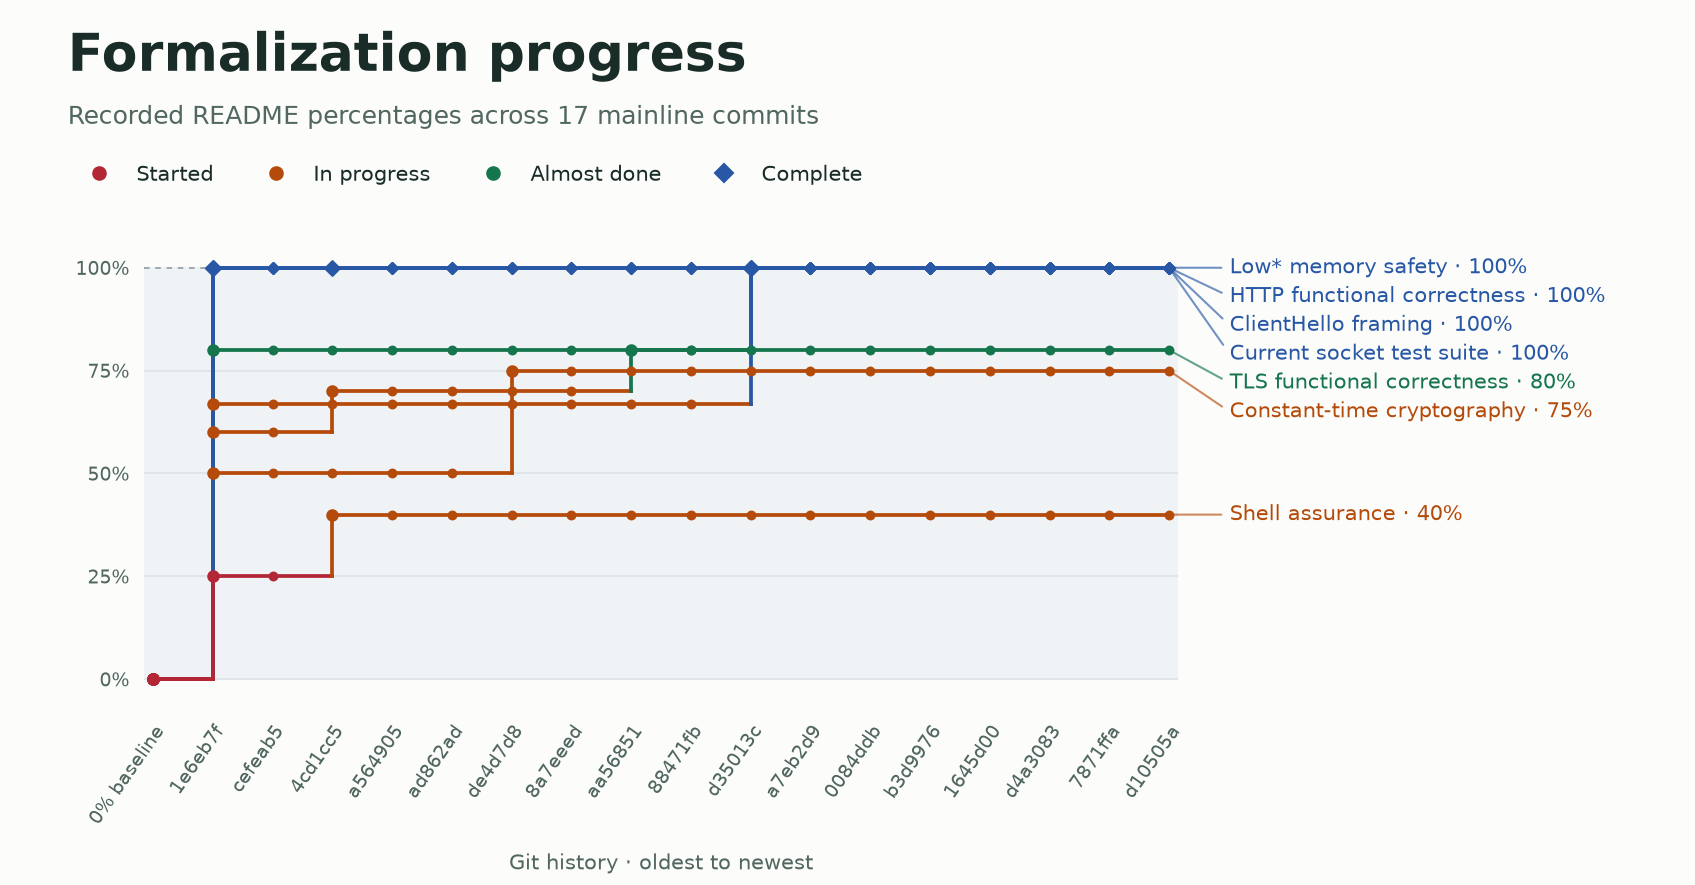
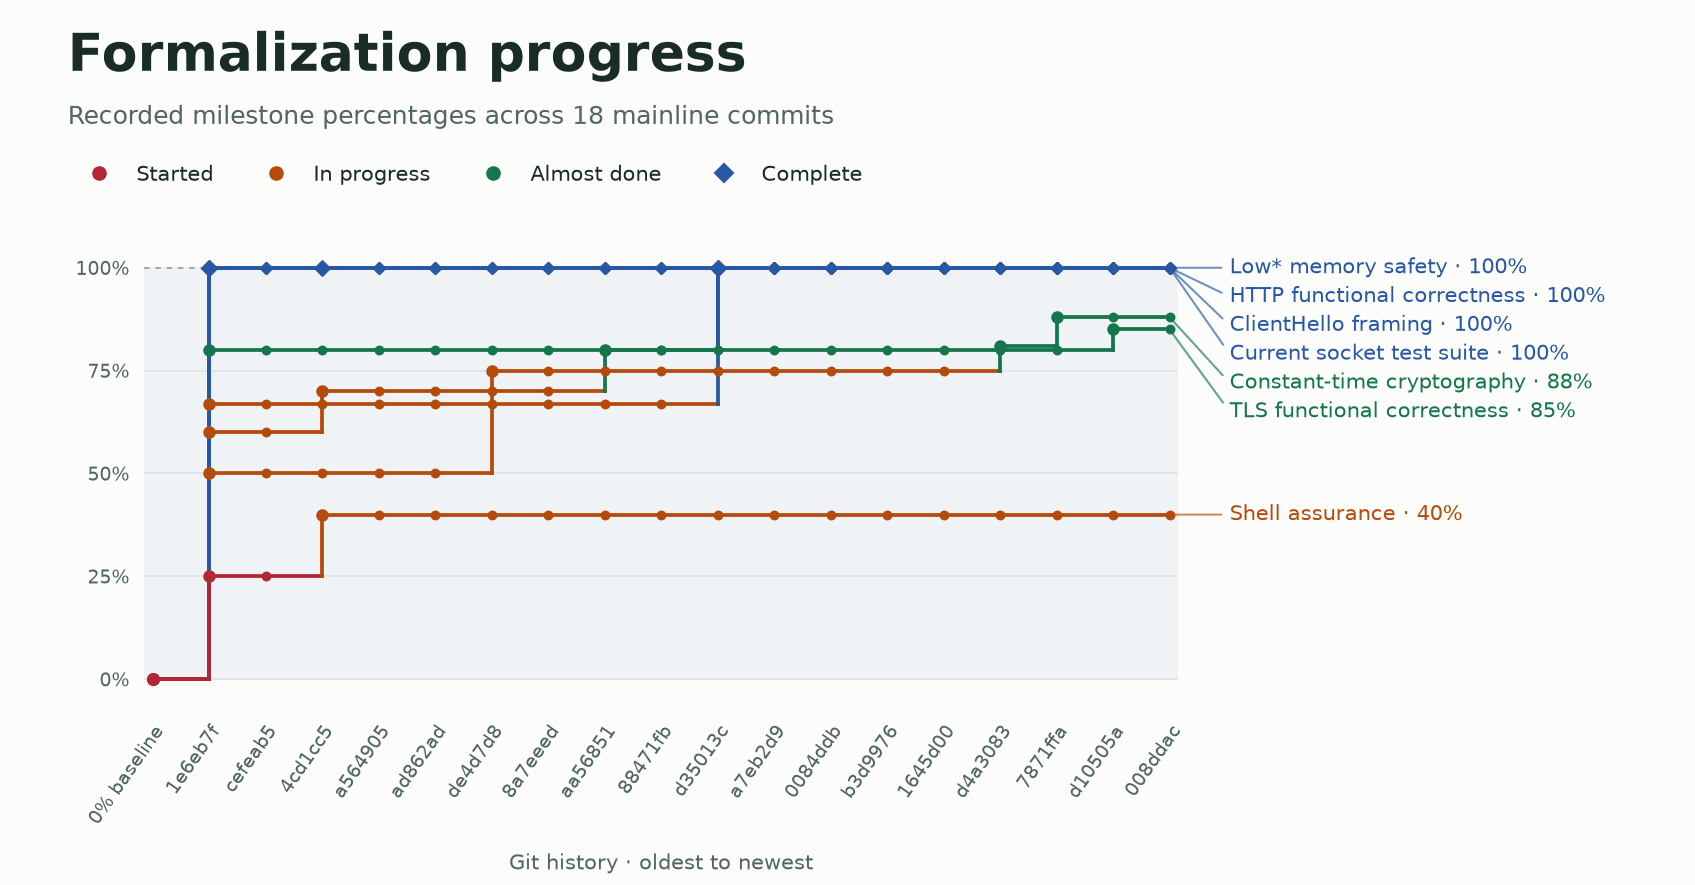
Credit TLS proof and assurance milestones where they landed

diff --git a/tools/plot_progress.py b/tools/plot_progress.py
@@ -30,6 +30,17 @@ def git(*args):
     return subprocess.run(["git", *args], cwd=ROOT, check=True, capture_output=True, text=True).stdout
 
 
+def score(label, status):
+    match = PROGRESS.search(status)
+    if match is None:
+        return None
+    percentage, fraction = match.groups()
+    symbol = status.strip()[0]
+    if symbol not in STATUS_STYLES:
+        raise ValueError(f"Unrecognized progress status for {label}: {status.strip()}")
+    return int(percentage), fraction, symbol
+
+
 def progress(readme):
     section = readme.partition("\n## Verification progress\n")[2].split("\n## ", 1)[0]
     rows = {}
@@ -38,32 +49,54 @@ def progress(readme):
         if columns[0] or len(columns) < 3:
             continue
         _, label, status, *_ = columns
-        match = PROGRESS.search(status)
-        if match:
+        point = score(label, status)
+        if point is not None:
             label = label.strip().replace(r"\*", "*")
             if label == "C shell assurance":
                 label = "Shell assurance"
-            percentage, fraction = match.groups()
-            symbol = status.strip()[0]
-            if symbol not in STATUS_STYLES:
-                raise ValueError(f"Unrecognized progress status for {label}: {status.strip()}")
-            rows[label] = (int(percentage), fraction, symbol)
+            rows[label] = point
     return rows
 
 
+def milestone_credits(readme):
+    section = readme.partition("\n#### Milestone credits by commit\n")[2].split("\n##", 1)[0]
+    credits = {}
+    for line in section.splitlines():
+        columns = line.split("|")
+        if columns[0] or len(columns) < 5:
+            continue
+        _, revision, label, status, *_ = columns
+        point = score(label, status)
+        if point is not None:
+            credits.setdefault(revision.strip().strip("`"), {})[label.strip()] = point
+    return credits
+
+
 def history(*, committed_only=False):
+    current_readme = git("show", "HEAD:README.md") if committed_only else (ROOT / "README.md").read_text(encoding="utf-8")
+    credits = milestone_credits(current_readme)
+    carried = {}
     snapshots = []
     for commit in git("rev-list", "--reverse", "--first-parent", "HEAD").splitlines():
         if "README.md" in git("ls-tree", "--name-only", commit, "--", "README.md").splitlines():
             rows = progress(git("show", f"{commit}:README.md"))
         else:
             rows = {}
-        snapshots.append((commit[:7], rows))
+        revision = commit[:7]
+        for label, point in credits.get(revision, {}).items():
+            carried[label] = rows[label], point
+        # Carry a credit until the committed table records a different score for that area.
+        for label, (previous, credited) in list(carried.items()):
+            if rows.get(label) == previous:
+                rows[label] = credited
+            else:
+                del carried[label]
+        snapshots.append((revision, rows))
 
     first_recorded = next((i for i, (_, rows) in enumerate(snapshots) if rows), len(snapshots))
     snapshots = snapshots[first_recorded:]
     if not committed_only:
-        working_tree = progress((ROOT / "README.md").read_text(encoding="utf-8"))
+        working_tree = progress(current_readme)
         if not snapshots or working_tree != snapshots[-1][1]:
             snapshots.append(("Working tree", working_tree))
     return snapshots
@@ -80,7 +113,7 @@ def draw(snapshots, output):
     figure.subplots_adjust(left=0.085, right=0.695, bottom=0.20, top=0.73)
     figure.text(0.04, 0.92, "Formalization progress", fontsize=25, weight="bold", color=INK)
     commit_count = len(snapshots) - (snapshots[-1][0] == "Working tree")
-    figure.text(0.04, 0.86, f"Recorded README percentages across {commit_count} mainline commits",
+    figure.text(0.04, 0.86, f"Recorded milestone percentages across {commit_count} mainline commits",
                 fontsize=12, color=MUTED)
     handles = [
         Line2D([], [], color=color, marker=marker, linestyle="none", label=name)

diff --git a/README.md b/README.md
@@ -14,9 +14,9 @@ Percentages count completed modules, test cases, or equally weighted roadmap mil
 |---|---|---|---|
 | Low\* memory safety | 🏁 **100%** (21/21 modules) | All core modules verified for bounds, lifetimes, and arithmetic safety under their contracts. | |
 | HTTP functional correctness | 🏁 **100%** (6/6 milestones) | Path normalization, lookup and routing, parser bounds, header-budget rejection, request-header grammar, and response serialization with exact `Content-Type` selection. [HTTP proofs](docs/PROOFS.md#http-core-srchttpfst) | |
-| TLS functional correctness | 🟢 **80%** (8/10 milestones) | Exact hello transcript and handshake key installation, encrypted server flight tied to the stored transcript hash and application keys, Finished verification, CertificateVerify signing input, application-data gating, and record sealing and opening against AEAD contracts. ChaCha20-Poly1305 uses HACL\*’s specification. AES-GCM uses an abstract contract. [TLS proofs](docs/PROOFS.md#tls-13-srctlsfst) | Carry the server-flight invariant through the public input path and client Finished. Prove end-to-end protocol security. |
+| TLS functional correctness | 🟢 **85%** (17/20 milestones) | Exact hello transcript and handshake key installation, encrypted server flight tied to the stored transcript hash and application keys, Finished verification, CertificateVerify signing input, application-data gating, and record sealing and opening against AEAD contracts. ChaCha20-Poly1305 uses HACL\*’s specification. AES-GCM uses an abstract contract. [TLS proofs](docs/PROOFS.md#tls-13-srctlsfst) | Carry the server-flight invariant through the public input path and client Finished. Specify the end-to-end security model and prove the protocol theorem. |
 | ClientHello framing | 🏁 **100%** (5/5 milestones) | EverParse 3D verifies fixed fields, session ID bounds, suite and compression vector lengths, and extension TLV framing against the local grammar. The verified Low\* check requires exact consumption, and parser success implies that the full body matched the grammar under the validator binding. | |
-| Constant-time cryptography | 🟠 **75%** (3/4 milestones) | We use upstream constant-time primitives and scan every Finished MAC byte. GCC and Clang timing checks cover Finished rejection, authenticated record opening, X25519, P-256 signing, and CertificateVerify in a ChaCha20-Poly1305 server flight. Memcheck traces record protection for both suites and CertificateVerify through DER serialization. The record-opening trace shows that the inner content-type scan iterates over the padding. [Timing results](docs/ASSURANCE.md#constant-time-checks) | Study additional CPUs, build settings, TLS paths, and microarchitectural effects. |
+| Constant-time cryptography | 🟢 **88%** (14/16 milestones) | We use upstream constant-time primitives and scan every Finished MAC byte. GCC and Clang timing checks cover Finished rejection, authenticated record opening, X25519, P-256 signing, and CertificateVerify in a ChaCha20-Poly1305 server flight. Memcheck traces record protection for both suites and CertificateVerify through DER serialization. The record-opening trace shows that the inner content-type scan iterates over the padding. [Timing results](docs/ASSURANCE.md#constant-time-checks) | Extend coverage across CPUs and build settings. Study microarchitectural effects. |
 | Current socket test suite | 🏁 **100%** (22/22 tests) | Routing, path confinement, malformed requests, TLS request fragmentation and pipelining, and both TLS suites pass. The matrix varies C optimization and runs a build with ASan/UBSan instrumentation in the C core. | |
 | Shell assurance | 🟠 **40%** (2/5 milestones) | Tested, sandboxed baseline and migration of socket, file, and buffer ownership to Rust. FFI and Linux syscall wrappers are trusted. | Specify and verify the socket loop, site loader, and sandbox policy. |
 
@@ -28,9 +28,17 @@ In-process fuzzing checks output bounds across 400,000 HTTP and 100,000 TLS inpu
 
 ![Seven formalization metrics on one chart, with a red 0% baseline and markers colored by README status](docs/progress.png)
 
-The chart plots the milestone counts recorded in each commit’s README. A flat line means the count stayed the same. Recent commits added X25519 timing and Memcheck coverage for record sealing (`d4a3083`), then extended the checks to record opening and CertificateVerify (`7871ffa`). [Assurance results](docs/ASSURANCE.md#constant-time-checks)
+The TLS roadmap now counts server-flight composition and client Finished integration separately. Its end-to-end security milestone is split into the security model and the theorem. The eight earlier milestones account for 16 of the 20 units. The constant-time roadmap splits its final milestone into X25519 timing and record-sealing traces, record-opening and CertificateVerify checks, coverage across CPUs and build settings, and microarchitectural analysis. The three earlier milestones account for 12 of the 16 units. [TLS proofs](docs/PROOFS.md#tls-13-srctlsfst) · [Assurance results](docs/ASSURANCE.md#constant-time-checks)
 
-The chart starts at the first mainline commit with a progress table. The separate red 0% baseline is a visual reference. Blue diamonds mark completed areas. Hollow markers show working-tree values when included. The Rust migration expanded the shell roadmap from four to five milestones. Regenerate the published view with `python3 tools/plot_progress.py --committed-only` using Matplotlib.
+#### Milestone credits by commit
+
+| Commit | Area | Progress | Completed |
+|---|---|---|---|
+| `d4a3083` | Constant-time cryptography | 🟢 **81%** (13/16 milestones) | Measured X25519 timing and traced record sealing. |
+| `7871ffa` | Constant-time cryptography | 🟢 **88%** (14/16 milestones) | Traced record opening and CertificateVerify and measured CertificateVerify timing. |
+| `d10505a` | TLS functional correctness | 🟢 **85%** (17/20 milestones) | Proved that the encrypted server flight, stored transcript, and application keys agree. |
+
+The chart starts at the first mainline commit with a progress table and credits the work above at the commits that delivered it. The separate red 0% baseline is a visual reference. Blue diamonds mark completed areas. Hollow markers show working-tree values when included. Regenerate the published view with `python3 tools/plot_progress.py --committed-only` using Matplotlib.
 
 ## Defense in depth
 
